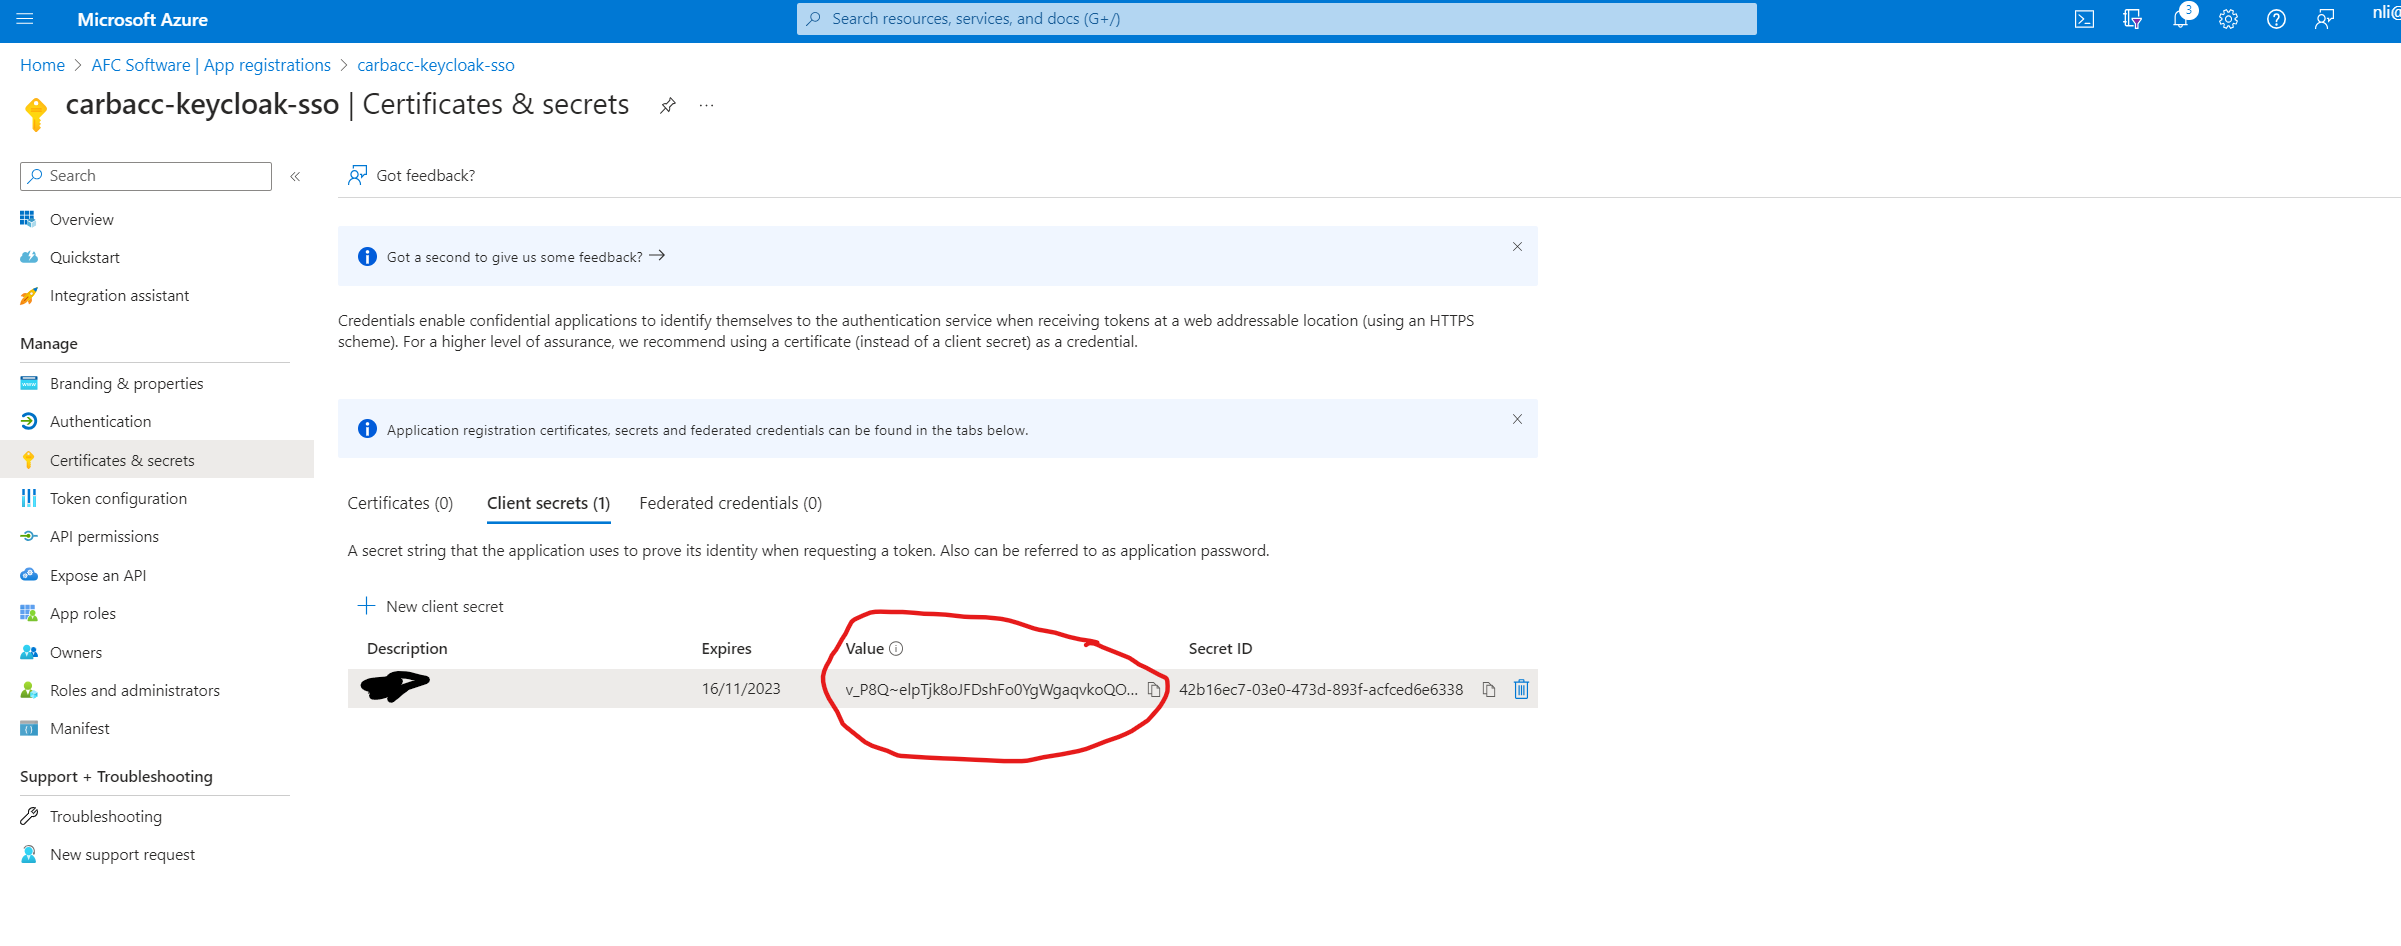
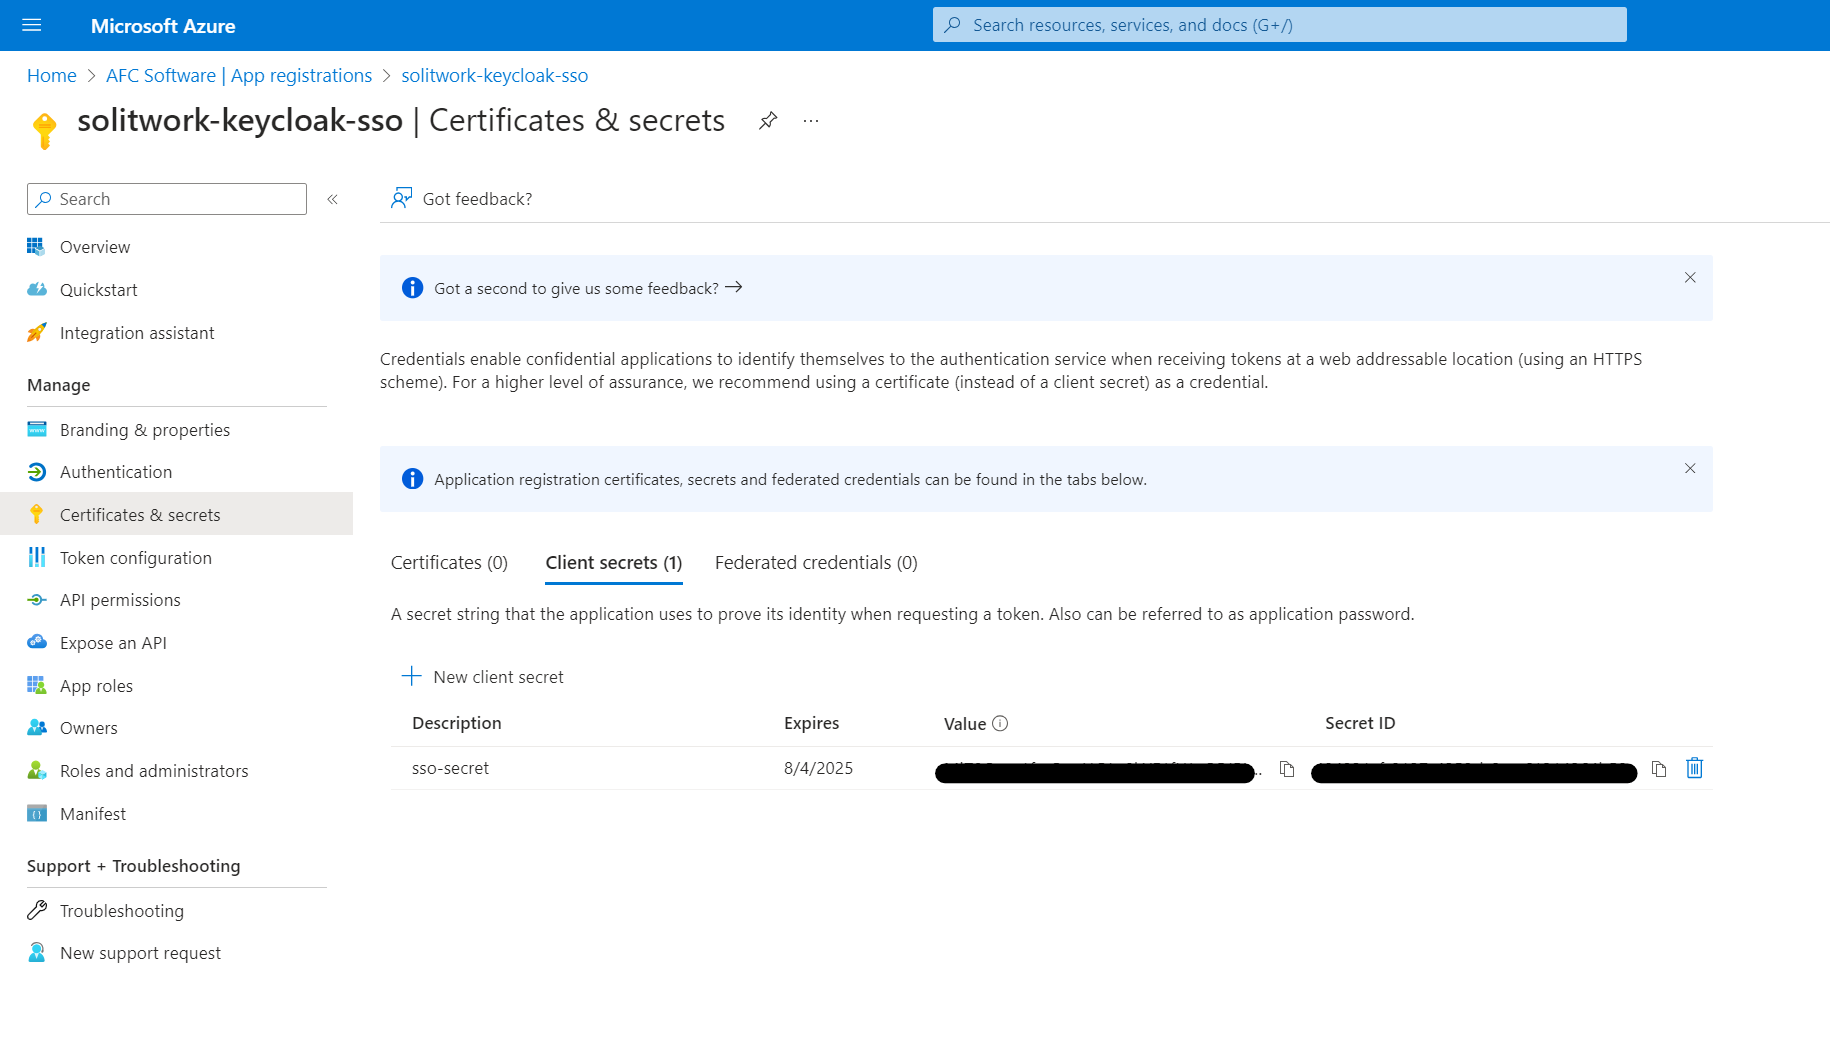
Update from sw-terraform-deployment Release 1.5.1

diff --git a/guides/sso-setup/README.md b/guides/sso-setup/README.md
@@ -1,17 +1,24 @@
-# ESG SSO Setup
+# Solitwork SSO Setup
 
-**Before starting**: This guide was written for carbon accounting which is why some names was fitting that purpose. However, the steps is identical and you could just call things "esg" instead of carbacc. Note also Microsoft Azure AD has changed name to Microsoft Entra ID. 
+This guide will enable the single sign on setup on your Solitwork deployed applications.
 
-In order to ensure Azure SSO with Keycloak, we need to configure Azure AD as an identity provider, and add this identity provider in Keycloak.  
+In order to ensure Azure SSO with Keycloak, we need to configure Entra ID as an identity provider, and add this identity provider in Keycloak. 
+
+# Pre-requisites
+
+You must have an azure account with sufficient permissions to create app registrations, security groups, and permission delegations. This can usually be done by system administrators or priviliged users.
+
+In order to use it, Solitwork applications such as Carbon Accounting or ESG must exist in your tenant.
 
 
 ## Table of content
 When we host the solution you'll have to go through the following steps.
-- [ESG SSO Setup](#esg-sso-setup)
+- [Solitwork SSO Setup](#solitwork-sso-setup)
+- [Pre-requisites](#pre-requisites)
   - [Table of content](#table-of-content)
   - [1. Keycloak Initial Setup](#1-keycloak-initial-setup)
-  - [2. Azure AD App Registration](#2-azure-ad-app-registration)
-  - [3. Azure AD User Access Control](#3-azure-ad-user-access-control)
+  - [2. Microsoft Entra ID App Registration](#2-microsoft-entra-id-app-registration)
+  - [3. Microsoft Entra ID User Access Control](#3-microsoft-entra-id-user-access-control)
   - [4. Endpoints and secrets](#4-endpoints-and-secrets)
   - [5. Finalize Keycloak config](#5-finalize-keycloak-config)
 
@@ -21,29 +28,29 @@ When we host the solution you'll have to go through the following steps.
 
 First we set up the base identity provider in Keycloak.
 
-1. Go to the Keycloak admin center
-2. Select the realm "ESGAppRealm"
+1. Go to the Keycloak admin center using your installation's keycloak_url.
+2. Select your deployment's realm from the "Realms" dropdown menu, located top left. Your deployment name is the same as the 'customer' value in terraform.tfvars file used during installation.
 3. Configure > Identity providers > OpenID Connect v1.0
 
 ![](pics/KeyCloak1.png)
 
 4. Leave Alias as "aad-oidc"
 5. Set Display Name: "Login with Microsoft"
-6. Copy the Redirect URI (make sure it sais ... /broker/**aad-oidc**/endpoint and **not** .../broker/**oidc**/endpoint)
+6. Copy the Redirect URI (make sure it says ... /broker/**aad-oidc**/endpoint and **not** .../broker/**oidc**/endpoint)
 
 ![](pics/KeyCloak2.png)
 
-## 2. Azure AD App Registration
+## 2. Microsoft Entra ID App Registration
 
-Now to register the application in Azure AD. 
+Now to register the application in Microsoft Entra ID. 
 
-1. Navigate to the Azure AD Portal for the customer in question: 
+1. Navigate to the Microsoft Entra ID Portal for the customer in question: 
 > portal.azure.com/{Customer Tenant Name}.onmicrosoft.com
-2. Go to Azure Active Directory (search) > App registrations > New registration
+2. Go to Microsoft Entra ID > App registrations > New registration
 
 ![](pics/AppReg1.png)
 
-3. Choose a name: "carbacc-keycloak-sso"
+3. Choose a name: "solitwork-keycloak-sso"
 4. Single tenant supported account type
 5. Redirect URI: Select Web platform, and paste in redirect URI
 6. Click "Register"
@@ -51,9 +58,6 @@ Now to register the application in Azure AD.
 ![](AppReg2.png)
 
 ---
-!!!! (Could perhaps be avoided??)
-
-> \* The below additional claims are only necessary when app is hosted inside the customers own tenant. I.e. when the users are NOT guest users.
 
 We need to configure the token to pass along the user UPN. 
 
@@ -63,7 +67,7 @@ We need to configure the token to pass along the user UPN.
 
 ![](pics/claim.png)
 
-!!!!
+
 
 ---
 
@@ -74,31 +78,31 @@ We also need to grant read permission to the application.
 
 ![](pics/consent.png)
 
-## 3. Azure AD User Access Control
+## 3. Microsoft Entra ID User Access Control
 
 To control which users have access to the application, we create a security group and add the appropriate members. 
 
-1. In Azure Active Directory, navigate to groups
+1. In Microsoft Entra ID, navigate to groups
 2. New group
 3. Type: Security
-4. Name (e.g.): carbacc-keycloak
+4. Name (e.g.): solitwork-keycloak
 5. Owners: Tenant admin account
 6. Members: Select all users who should have access
 
 Now we need to enable the security group for sign in.
 
 1. Navigate to "Enterprise applications"
-2. Open the application (carbacc-keycloak-sso)
+2. Open the application (solitwork-keycloak-sso)
 3. Go to Properties
 4. Ensure enabled for sign in, and enable "Assignment required"
 5. Save
 6. Go to "Users and groups"
 7. Add user/group
-8. Add the security group (carbacc-keycloak)
+8. Add the security group (solitwork-keycloak)
 
 ## 4. Endpoints and secrets
 
-Go to App Registrations, then the 'carbacc-keycloak-sso' app. Here we need to copy some values for later use. 
+Go to App Registrations, then the 'solitwork-keycloak-sso' app. Here we need to copy some values for later use. 
 
 1. Copy the Application (client) ID
 2. Under Endpoints, copy the OpenID Connect metadata document
